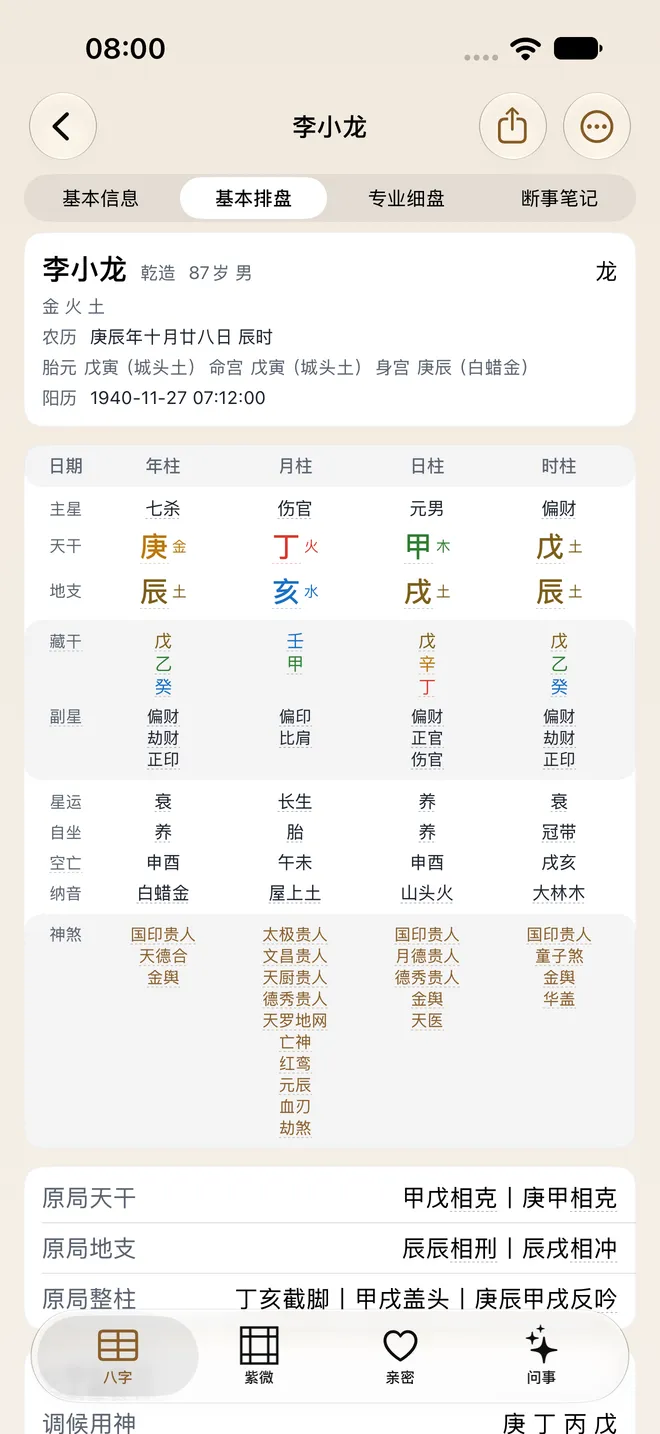
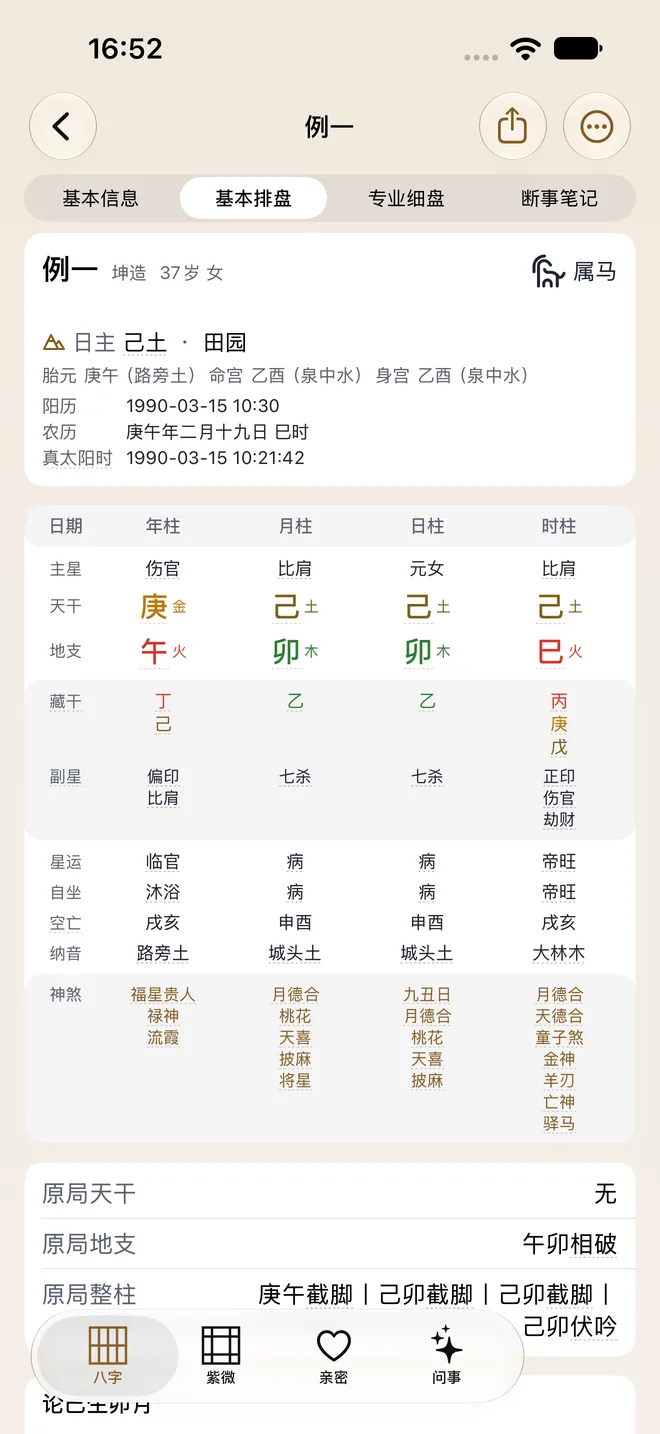
shots: 两张盘、命例列表与问事面换成 2.0.0 界面，盘用合成命例例一

diff --git a/specs/005-site-v4-tools/plan.md b/specs/005-site-v4-tools/plan.md
@@ -64,5 +64,5 @@
 - **B 光束**（`2f45e08`）：three 摘掉，ogl 一份 `ShaderCanvas` 带 amber、ink 两套明暗调色板。首屏球与 H1 跟站点明暗走，回退渐变有浅色版。
 - **C 各节**（`b8e7223`）：九节按 spec 节表。与本 plan 不同的两处：钉住用 `position: sticky`，body 的 `overflow-x` 因此用 clip，hidden 会把 body 变成滚动容器，页内 sticky 随之失效；换屏不拿 `useTransform` 接 opacity，本站上 MotionValue 驱动的 opacity 停在首帧，改成滚动进度落成步序 state 再 `animate`。中文短句走 `keepPanguSpaces`，标点归前一个词组，逐字揭示按词组不折行。
 - **文案**：首屏之下第一节对职业命理师讲三件事，整页按 owner 口气手写，经两轮审稿到第四稿（`0312a51` 到 `7f3902b`）。字数门多一档“给命理师”，简体 185 字、英文 121 词。讲数据去向的句子写两端现状：iOS 经 iCloud 同步，Android 随系统备份进 Google 账号。
-- **A 截图**（`30d9e7c`、`661dc1f`）：五张，iPhone 17 Pro Max 整屏 1320 × 2868，浅深各一，依次是起卦结果、紫微三合、八字四柱、命例列表、命例问事面，`scripts/build-shots.mjs` 构图出 WebP。两张盘用的是 spec 059 的署名种子，iOS 侧按例一到例四重拍后换进来。
+- **A 截图**（`30d9e7c`、`661dc1f`）：五张，iPhone 17 Pro Max 整屏 1320 × 2868，浅深各一，依次是起卦结果、紫微三合、八字四柱、命例列表、命例问事面，`scripts/build-shots.mjs` 构图出 WebP。两张盘、命例列表与问事面后来按 2.0.0 界面重拍，盘用合成命例例一（iOS `testWalkSiteChartShots`，后端走桩）。
 - **英文名**（`9ecc598`）：站点英文名全站是 Hachimi.ai，角色名英文是 Hachimi，与 iOS spec 078 同口径。
